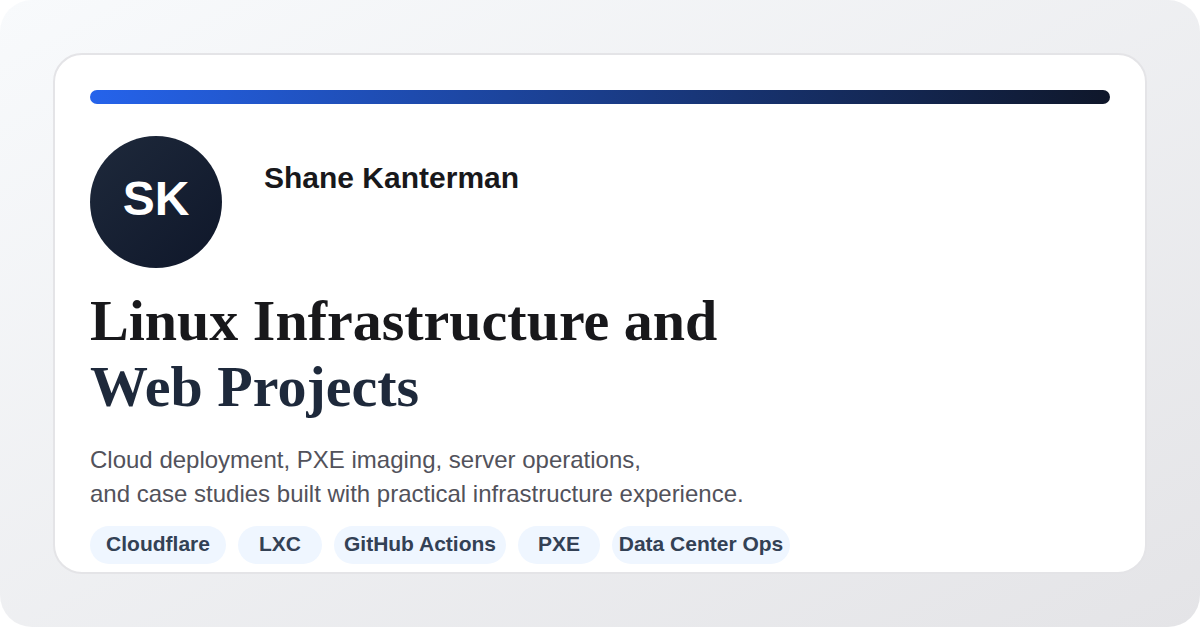
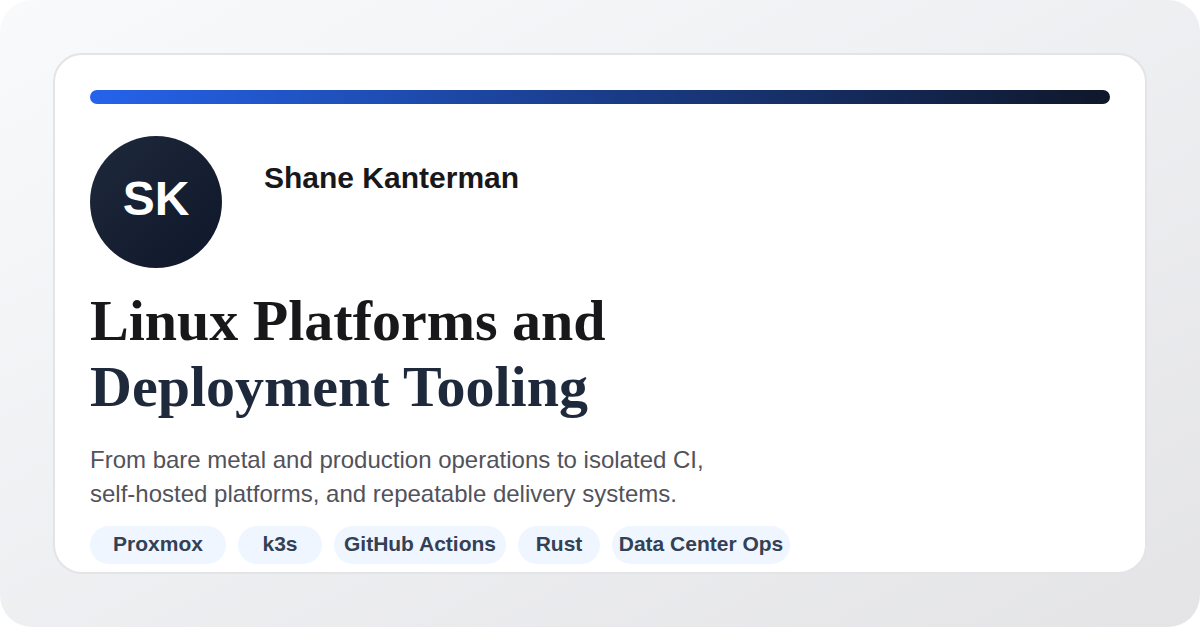
Refocus portfolio for infrastructure and platform roles

diff --git a/site/tests/home.spec.ts b/site/tests/home.spec.ts
@@ -8,14 +8,18 @@ test.describe('homepage', () => {
     await page.goto('/');
     const primaryNav = page.locator('nav[aria-label="Primary"]');
 
-    await expect(page).toHaveTitle('Shane Kanterman | Linux Infrastructure and Web Projects');
-    await expect(page.getByRole('heading', { name: 'Building Linux infrastructure and web projects that are designed to ship.' })).toBeVisible();
+    await expect(page).toHaveTitle('Shane Kanterman | Infrastructure and Platform Projects');
+    await expect(
+      page.getByRole('heading', {
+        name: 'Building Linux platforms and deployment tooling—from bare metal to CI/CD.',
+      }),
+    ).toBeVisible();
     await expect(
       page.getByRole('heading', { level: 3, name: 'KanterLabs Homelab Platform' }),
     ).toBeVisible();
     await expect(page.getByText('Featured case study')).toBeVisible();
 
-    await expectHashLinkToReachSection(page, () => primaryNav.getByRole('link', { name: 'About' }).click(), 'about');
+    await expectHashLinkToReachSection(page, () => primaryNav.getByRole('link', { name: 'Experience' }).click(), 'about');
     await page.goto('/');
     await expectHashLinkToReachSection(
       page,
@@ -28,16 +32,16 @@ test.describe('homepage', () => {
     await expectHashLinkToReachSection(page, () => primaryNav.getByRole('link', { name: 'Skills' }).click(), 'skills');
     await page.goto('/');
     await expectHashLinkToReachSection(page, () => primaryNav.getByRole('link', { name: 'Contact' }).click(), 'contact', {
-      maxTop: 420,
+      maxTop: 460,
     });
     await page.goto('/');
     await expectHashLinkToReachSection(
       page,
-      () => page.getByRole('link', { name: 'View Case Studies' }).click(),
+      () => page.getByRole('link', { name: 'View Selected Work' }).click(),
       'projects',
     );
 
-    await expect(page.getByRole('link', { name: 'Resume' }).first()).toHaveAttribute('href', '/Kanterman_Resume.pdf');
+    await expect(page.getByRole('link', { name: 'Resume' })).toHaveCount(0);
     await expect(page.getByRole('link', { name: 'LinkedIn' }).first()).toHaveAttribute(
       'href',
       'https://www.linkedin.com/in/shane-kanterman-4511a2234',
@@ -53,7 +57,7 @@ test.describe('homepage', () => {
     await expect(page.locator('link[rel="canonical"]')).toHaveAttribute('href', 'https://shanekanterman.dev/');
     await expect(page.locator('meta[name="description"]')).toHaveAttribute(
       'content',
-      'Portfolio site for Shane Kanterman featuring Linux infrastructure, cloud deployment, and web projects shaped by hands-on operations experience.',
+      'Infrastructure and platform portfolio for Shane Kanterman featuring Linux systems, deployment tooling, ephemeral CI, and hands-on data center operations.',
     );
 
     await expect(page.getByLabel('Site footer')).toContainText('Build');
@@ -109,7 +113,7 @@ test.describe('homepage', () => {
     await page.goto('/');
 
     const titleLinks = page.locator('.project-row-title a');
-    await expect(titleLinks).toHaveCount(4);
+    await expect(titleLinks).toHaveCount(3);
     for (const href of await titleLinks.evaluateAll((links) => links.map((l) => l.getAttribute('href')))) {
       expect(href).toMatch(/^\/projects\/.+/);
     }
@@ -119,6 +123,30 @@ test.describe('homepage', () => {
     await expect(
       page.getByRole('heading', { level: 1, name: 'KanterLabs Homelab Platform' }),
     ).toBeVisible();
+  });
+
+  test('selected work precedes experience and uses the intended project order', async ({ page }) => {
+    await page.goto('/');
+
+    const sectionOrder = await page.locator('main > section').evaluateAll((sections) =>
+      sections.map((section) => section.id).filter(Boolean),
+    );
+    expect(sectionOrder.slice(0, 3)).toEqual(['top', 'projects', 'about']);
+
+    const titles = await page
+      .locator('#projects .project-row-title')
+      .allTextContents();
+    expect(titles.map((title) => title.trim())).toEqual([
+      'KanterLabs Homelab Platform',
+      'Hostlet Self-Hosted Deployment Panel',
+      'Portfolio Infrastructure Deployment',
+    ]);
+
+    await expect(page.getByRole('link', { name: 'Read experience notes' })).toHaveAttribute(
+      'href',
+      '/projects/data-center-operations',
+    );
+    await expect(page.getByText('June 2025 – Present')).toBeVisible();
   });
 
   test('featured case study is visually distinct from supporting rows', async ({ page }) => {

diff --git a/site/tests/case-studies.spec.ts b/site/tests/case-studies.spec.ts
@@ -5,21 +5,29 @@ const caseStudies = [
     path: '/projects/multi-node-portfolio',
     title: 'Portfolio Infrastructure Deployment | Shane Kanterman',
     heading: 'Portfolio Infrastructure Deployment',
+    backLabel: 'Back to selected work',
+    backHref: '/#projects',
   },
   {
     path: '/projects/kanterlabs-homelab',
     title: 'KanterLabs Homelab Platform | Shane Kanterman',
     heading: 'KanterLabs Homelab Platform',
+    backLabel: 'Back to selected work',
+    backHref: '/#projects',
   },
   {
     path: '/projects/hostlet',
     title: 'Hostlet Self-Hosted Deployment Panel | Shane Kanterman',
     heading: 'Hostlet Self-Hosted Deployment Panel',
+    backLabel: 'Back to selected work',
+    backHref: '/#projects',
   },
   {
     path: '/projects/data-center-operations',
     title: 'InterServer Data Center Operations | Shane Kanterman',
     heading: 'InterServer Data Center Operations',
+    backLabel: 'Back to experience',
+    backHref: '/#about',
   },
 ];
 
@@ -33,7 +41,10 @@ test.describe('case studies', () => {
       await expect(page.getByText('Role').first()).toBeVisible();
       await expect(page.getByText('Scope').first()).toBeVisible();
       await expect(page.getByText('Outcome').first()).toBeVisible();
-      await expect(page.getByRole('link', { name: 'Back to all projects' })).toHaveAttribute('href', '/#projects');
+      await expect(page.getByRole('link', { name: entry.backLabel })).toHaveAttribute(
+        'href',
+        entry.backHref,
+      );
     });
   }
 
@@ -47,14 +58,36 @@ test.describe('case studies', () => {
     await expect(page.getByText(/Build (\d{2}-\d{2}-\d{4}-\d+|unavailable)/)).toBeVisible();
   });
 
-  test('back to all projects returns to homepage projects anchor', async ({ page }) => {
+  test('back to selected work returns to homepage projects anchor', async ({ page }) => {
     await page.goto('/projects/kanterlabs-homelab');
-    await page.getByRole('link', { name: 'Back to all projects' }).click();
+    await page.getByRole('link', { name: 'Back to selected work' }).click();
 
     await expect
       .poll(async () => page.evaluate(() => window.location.hash))
       .toBe('#projects');
     await expect(page).toHaveURL(/#projects$/);
+  });
+
+  test('project source links use canonical repositories', async ({ page }) => {
+    await page.goto('/projects/hostlet');
+    await expect(page.getByRole('link', { name: 'View Hostlet repo' })).toHaveAttribute(
+      'href',
+      'https://github.com/KanterLabs/hostlet-core',
+    );
+
+    await page.goto('/projects/multi-node-portfolio');
+    await expect(page.getByRole('link', { name: 'View portfolio repo' })).toHaveAttribute(
+      'href',
+      'https://github.com/KanterLabs/portfolio',
+    );
+  });
+
+  test('data center experience reflects current employment', async ({ page }) => {
+    await page.goto('/projects/data-center-operations');
+
+    await expect(page.getByText('Experience Notes')).toBeVisible();
+    await expect(page.getByText(/since June 2025/)).toBeVisible();
+    await expect(page.getByText(/June through August 2025/)).toHaveCount(0);
   });
 
   test('legacy homelab route redirects to the new case study', async ({ page }) => {

diff --git a/site/tests/mobile-metrics.spec.ts b/site/tests/mobile-metrics.spec.ts
@@ -16,7 +16,7 @@ test('mobile homepage metrics and content spot checks', async ({ page }, testInf
     contactLine: Array.from(document.querySelectorAll('p'))
       .find((p) => p.textContent?.includes('shanekanterman04@gmail.com'))
       ?.textContent?.trim(),
-    sectionTops: ['about', 'architecture', 'projects', 'skills', 'contact'].map((id) => ({
+    sectionTops: ['projects', 'about', 'architecture', 'skills', 'contact'].map((id) => ({
       id,
       top: Math.round(
         (document.getElementById(id)?.getBoundingClientRect().top ?? 0) + window.scrollY,
@@ -28,10 +28,13 @@ test('mobile homepage metrics and content spot checks', async ({ page }, testInf
 
   expect(metrics.hasHorizontalOverflow).toBe(false);
   expect(metrics.scrollHeight).toBeLessThan(12000);
-  expect(metrics.h1).toContain('Building Linux infrastructure and web projects that are designed to ship');
-  expect(metrics.heroParagraph).toContain('hands-on data center operations experience');
+  expect(metrics.h1).toContain('Building Linux platforms and deployment tooling');
+  expect(metrics.heroParagraph).toContain('current InterServer Data Center Technician');
   expect(metrics.contactLine).toContain('shanekanterman04@gmail.com');
   expect(metrics.contactLine).toContain('Cranford');
+  expect(metrics.sectionTops[0]?.id).toBe('projects');
+  expect(metrics.sectionTops[0]?.top).toBeLessThan(1800);
+  expect(metrics.sectionTops[0]?.top).toBeLessThan(metrics.sectionTops[1]?.top ?? 0);
 
   // Keep the capture inside Playwright's output dir (gitignored) and on
   // the HTML report instead of dropping a stray PNG at the repo root.

diff --git a/site/tests/visual.spec.ts b/site/tests/visual.spec.ts
@@ -8,7 +8,12 @@ test.describe('visual coverage', () => {
     await page.screenshot({ path: screenshot, fullPage: true, type: 'png' });
     await testInfo.attach('home', { path: screenshot, contentType: 'image/png' });
 
-    await expect(page.getByRole('heading', { level: 1, name: 'Building Linux infrastructure and web projects that are designed to ship.' })).toBeVisible();
+    await expect(
+      page.getByRole('heading', {
+        level: 1,
+        name: 'Building Linux platforms and deployment tooling—from bare metal to CI/CD.',
+      }),
+    ).toBeVisible();
   });
 
   for (const entry of [

diff --git a/site/tests/animations.spec.ts b/site/tests/animations.spec.ts
@@ -4,7 +4,7 @@ test('homepage exposes deliberate motion hooks', async ({ page }) => {
   await page.goto('/');
 
   await expect(page.locator('.hero-reveal')).toHaveCount(5);
-  await expect(page.locator('.project-row')).toHaveCount(4);
+  await expect(page.locator('.project-row')).toHaveCount(3);
   await expect(page.locator('.architecture-boot-node')).toHaveCount(3);
   await expect(page.locator('.architecture-boot-connector')).toHaveCount(2);
 });

diff --git a/site/src/content.config.ts b/site/src/content.config.ts
@@ -13,6 +13,7 @@ const projects = defineCollection({
       role: z.string(),
       scope: z.string(),
       keyOutcome: z.string(),
+      kind: z.enum(['project', 'experience']).default('project'),
       featured: z.boolean().default(false),
       order: z.number(),
       stack: z.array(z.string()),
